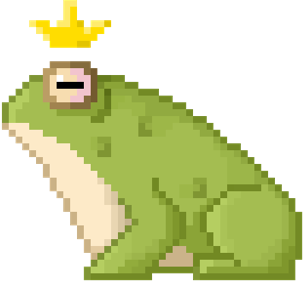
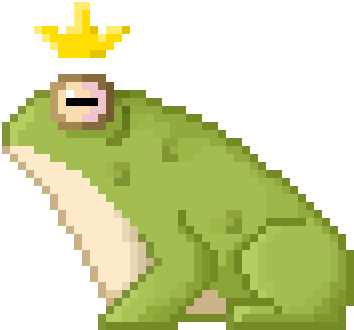
Made Tora move left with a left sprite

diff --git a/main.py b/main.py
@@ -27,8 +27,12 @@ while running:
     # Key hold
     keys = pygame.key.get_pressed()
     if keys[pygame.K_LEFT]:
+        player_img = pygame.image.load('Assets/Tora_left.png').convert_alpha()
+        player_img = pygame.transform.scale(player_img, (SQUARE_SIZE,SQUARE_SIZE))
         Tora.move_left()
     elif keys[pygame.K_RIGHT]:
+        player_img = pygame.image.load('Assets/Tora_right.png').convert_alpha()
+        player_img = pygame.transform.scale(player_img, (SQUARE_SIZE,SQUARE_SIZE))
         Tora.move_right()
 
     Tora.apply_gravity()

diff --git a/README.md b/README.md
@@ -5,4 +5,4 @@
 - Smooth jump implementation 
 - Add platforms
 - Make Tota interact with platforms
-- Add Tora image
+- ~~Add Tora image~~ 
